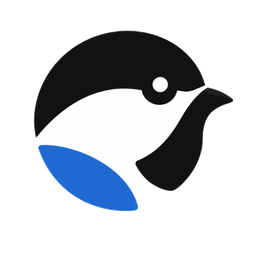
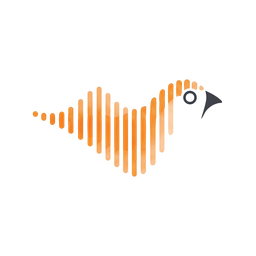
0.1.4 — the orange mark
Images only: the channel icon and logo, the console's own assets, and the
re-vendored integration's brand/ folder, all from the promoted masters. No
behaviour, no settings, no permissions — and the changelog says exactly that,
because a user deciding whether to click Update deserves to know it is a
repaint.

Version bumped so Update is not a no-op; dev mirrored by the script; every
static check green, and the art verified by looking at the emitted file rather
than trusting that the copy went where it was aimed.

diff --git a/chickadee/CHANGELOG.md b/chickadee/CHANGELOG.md
@@ -4,6 +4,11 @@ Chickadee starts its own history here. The add-on shares a codebase with Dashie
 and most of this tree is generated from it, but Dashie's release history is not
 Chickadee's — see `PROVENANCE.md` in the repository for the relationship.
 
+## 0.1.4 — 2026-08-02
+
+**A new look.** Chickadee's mark is now orange. Nothing else changed — no
+behaviour, no settings, no permissions.
+
 ## 0.1.3 — 2026-08-02
 
 **Turning sharing off now reaches your devices in seconds.**

diff --git a/chickadee_dev/CHANGELOG.md b/chickadee_dev/CHANGELOG.md
@@ -7,6 +7,10 @@ Chickadee starts its own history here. The add-on shares a codebase with Dashie
 and most of this tree is generated from it, but Dashie's release history is not
 Chickadee's — see `PROVENANCE.md` in the repository for the relationship.
 
+## 0.1.4 — 2026-08-02
+
+The orange mark. Images only.
+
 ## 0.1.3 — 2026-08-02
 
 The renew-now signal moves to an entity state change, because the event form was
